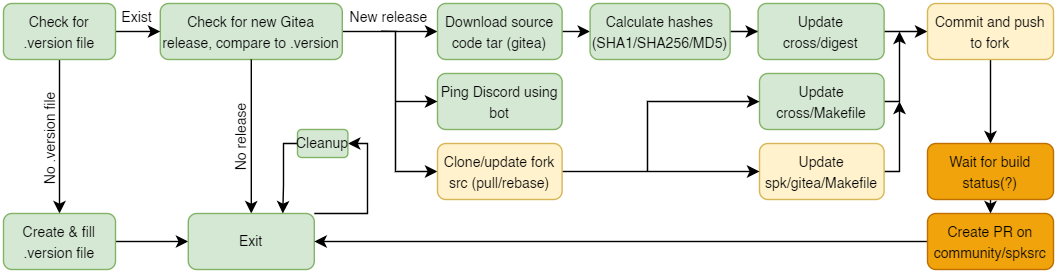
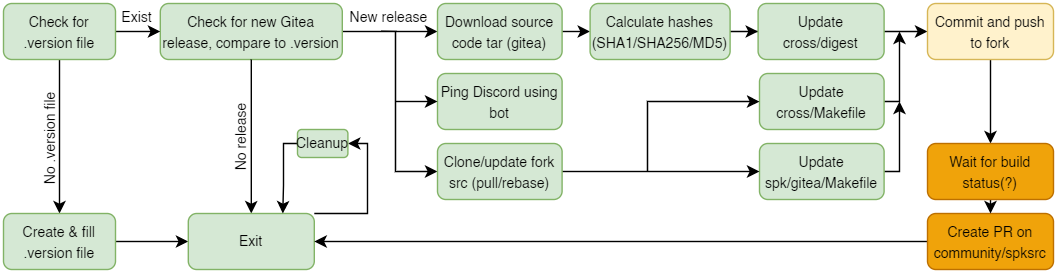
Save Makefile. Update diagram. Minor cleanup.

Changed region(s): [[0.7181, 0.4982, 0.843, 0.7326], [0.4059, 0.4982, 0.5307, 0.7326]]

diff --git a/main.py b/main.py
@@ -30,6 +30,7 @@ class PullRequest:
             print("DEBUG : No .version file. Creating and filling one... \t DONE".expandtabs(90))
             exit("DEBUG : First run finished. \t EXITING".expandtabs(90))
 
+    @staticmethod
     def discord_notify_setup(self):
         if os.path.isfile("discord.sh"):
             return True
@@ -59,12 +60,17 @@ class PullRequest:
             else:
                 print("DEBUG : Discord message sent successfully. \t DONE".expandtabs(90))
 
+    @staticmethod
     def write_version(self, latest_release):
-        file = open(".version", "r+")
-        file.seek(0)
-        file.truncate()
-        print(latest_release, file=file)
+        if os.path.isfile(".version"):
+            file = open(".version", "r+")
+            file.seek(0)
+            file.truncate()
+            print(latest_release, file=file)
+        else:
+            exit("ERROR: Something in writing .version file function went wront. \t EXITING".expandtabs(90))
 
+    @staticmethod
     def git_pull_and_checkout(self):
         if os.path.isdir("spksrc"):
             print("DEBUG : Repo already exists... \t PASS".expandtabs(90))
@@ -74,7 +80,6 @@ class PullRequest:
             os.popen(f"git clone https://github.com/Wuszek/spksrc.git && cd spksrc && git remote add "
                      f"upstream https://github.com/SynoCommunity/spksrc.git").read()
             print("DEBUG : Repo setting up...  \t DONE".expandtabs(90))
-
 
         print("DEBUG : Updating repository... \t IN PROGRESS".expandtabs(90))
         try:
@@ -87,13 +92,15 @@ class PullRequest:
             print("ERROR : Something went wrong while updating repository. \t EXITING".expandtabs(90))
 
     def create_digests(self, hash_type):
-        # TODO: Make sure, that this operation is possible. Try/except or if file exist
-        digests = os.popen(f"{hash_type.lower()} {self.latest_release}.tar.gz").read()
-        temp = digests.split()
-        temp.reverse()
-        temp[0] = f"gitea-{self.latest_release}.tar.gz"
-        temp.insert(1, hash_type[:-3])
-        return " ".join(temp)
+        if os.path.isfile(f"{self.latest_release}.tar.gz"):
+            digests = os.popen(f"{hash_type.lower()} {self.latest_release}.tar.gz").read()
+            temp = digests.split()
+            temp.reverse()
+            temp[0] = f"gitea-{self.latest_release}.tar.gz"
+            temp.insert(1, hash_type[:-3])
+            return " ".join(temp)
+        else:
+            exit(f"ERROR: Package {self.latest_release}tar.gz doesn't exist. \t EXITING".expandtabs(90))
 
     def download_gitea_package(self):
         if os.path.isfile(f"{self.latest_release}.tar.gz"):
@@ -147,11 +154,11 @@ class PullRequest:
             data[1] = f"PKG_VERS = {self.latest_release[1:]}\n"
             revision = int(data[2][10:]) + 1
             data[2] = f"SPK_REV = {revision}\n"
-            data[8] = f'''{data[8][:-2]}.</br> {revision}. Update to {self.latest_release}"\n'''
-
-            print(data[1])
-            print(data[2])
-            print(data[8])
+            data[8] = f'''{data[8][:-2]}<br/> {revision}. Update to {self.latest_release}."\n'''
+            with open("spksrc/spk/gitea/Makefile", "r+") as file:
+                file.writelines(data)
+            file.close()
+            print("DEBUG : Updating spk/gitea/Makefile...  \t DONE".expandtabs(90))
         else:
             exit("ERROR : Something went wrong during spk/gitea/Makefile file update \t EXITING".expandtabs(90))
 
@@ -168,22 +175,21 @@ class PullRequest:
             print("DEBUG : There is nothing to delete and nothing happens. \t PASS".expandtabs(90))
             pass
 
-        # TODO: Function to update spk/gitea/Makefile
+        # TODO: Uncomment git_pull_and_checkout operation 
         # TODO: Function to push commit to repo after changes was made
         # TODO: Function to create PR from Wuszek/spksrc to synocommunity/spksrc with correct template
 
     def run(self):
-        # TODO: check if Makefile exist = just check if repo is there and if is updated
         if self.get_latest() != self.read_version():
             print(f"DEBUG : Newer version appeared: {self.latest_release}. Executing... \t IN PROGRESS".expandtabs(90))
-            # self.discord_notify()
-            # self.write_version(self.latest_release)
-            # self.git_pull_and_checkout()
-            # self.download_gitea_package()
-            # self.update_digests_file()
-            # self.update_cross_makefile()
-            # self.cleanup(self.latest_release)
+            self.discord_notify()
+            self.write_version(self.latest_release)
+            self.git_pull_and_checkout()
+            self.download_gitea_package()
+            self.update_digests_file()
+            self.update_cross_makefile()
             self.update_gitea_makefile()
+            self.cleanup(self.latest_release)
             print("DEBUG : All jobs finished. \t EXITING".expandtabs(90))
             exit(0)
         else:
